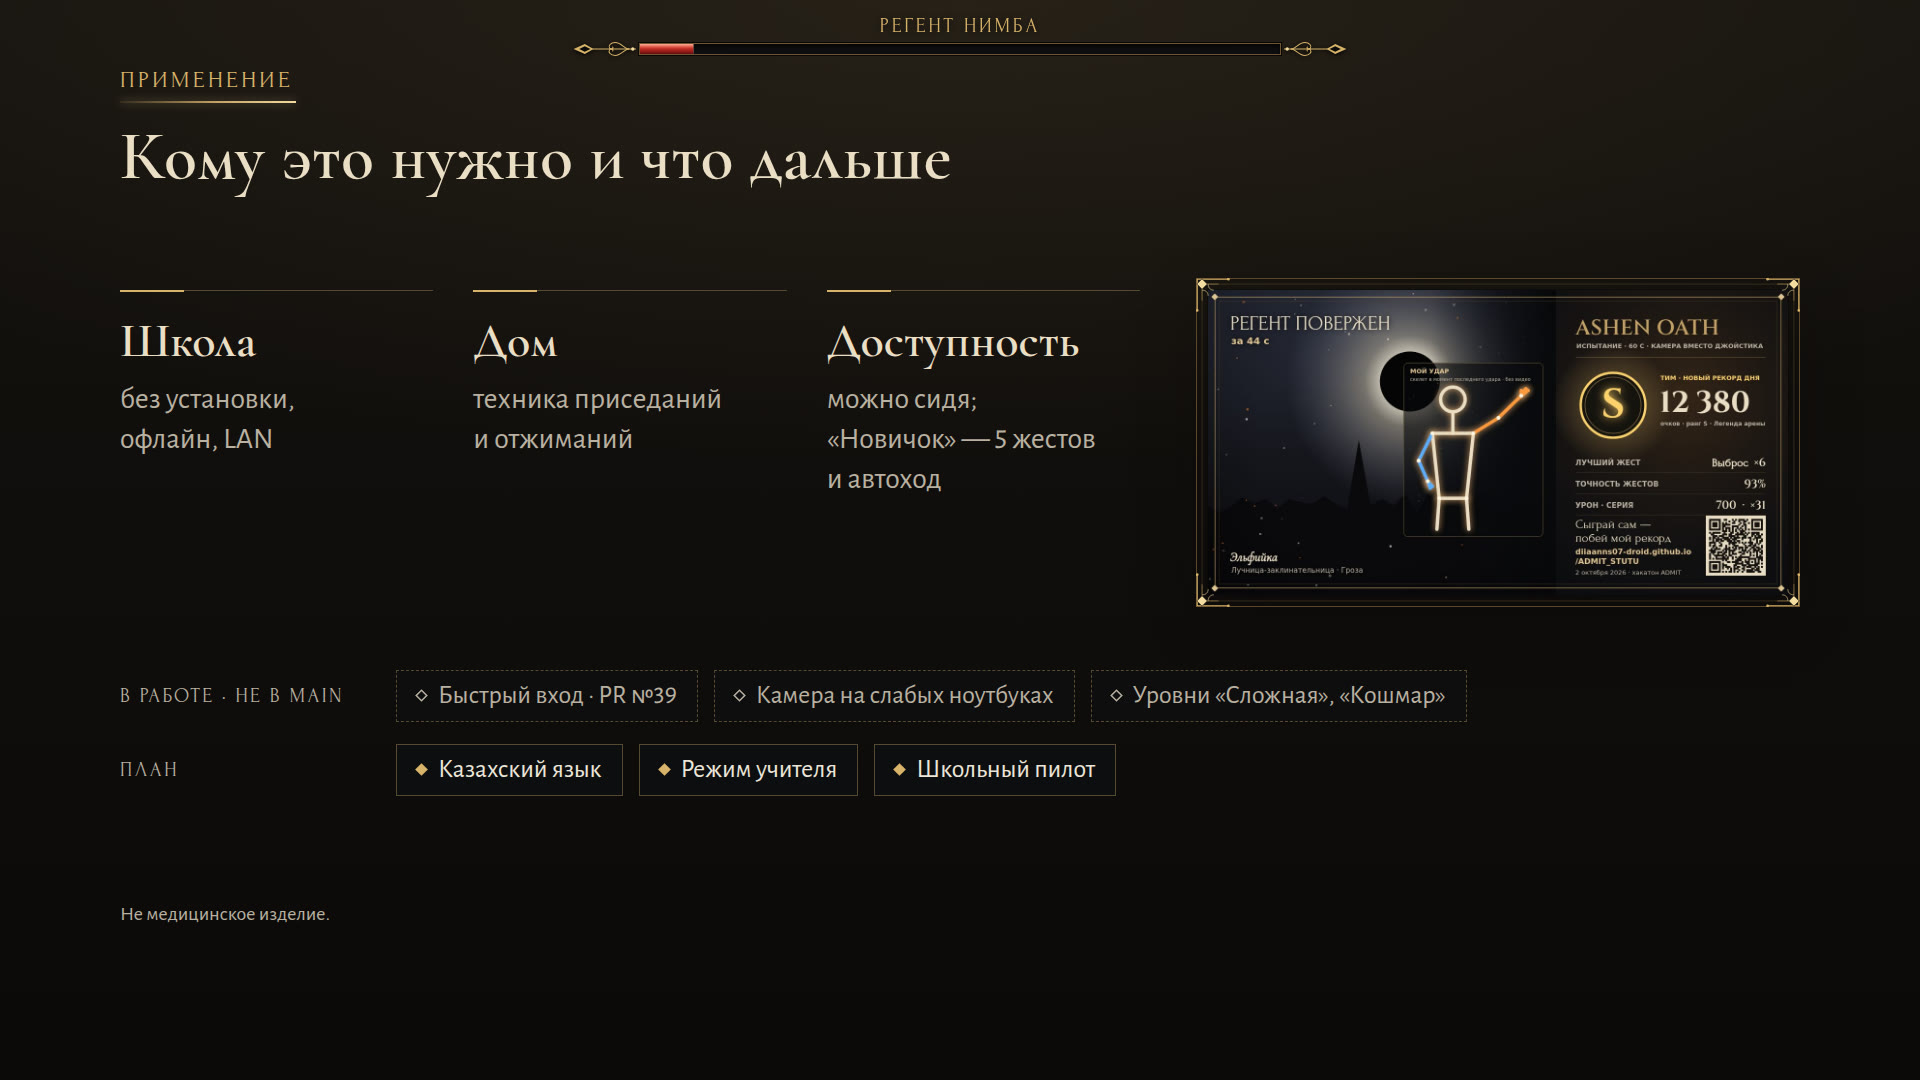
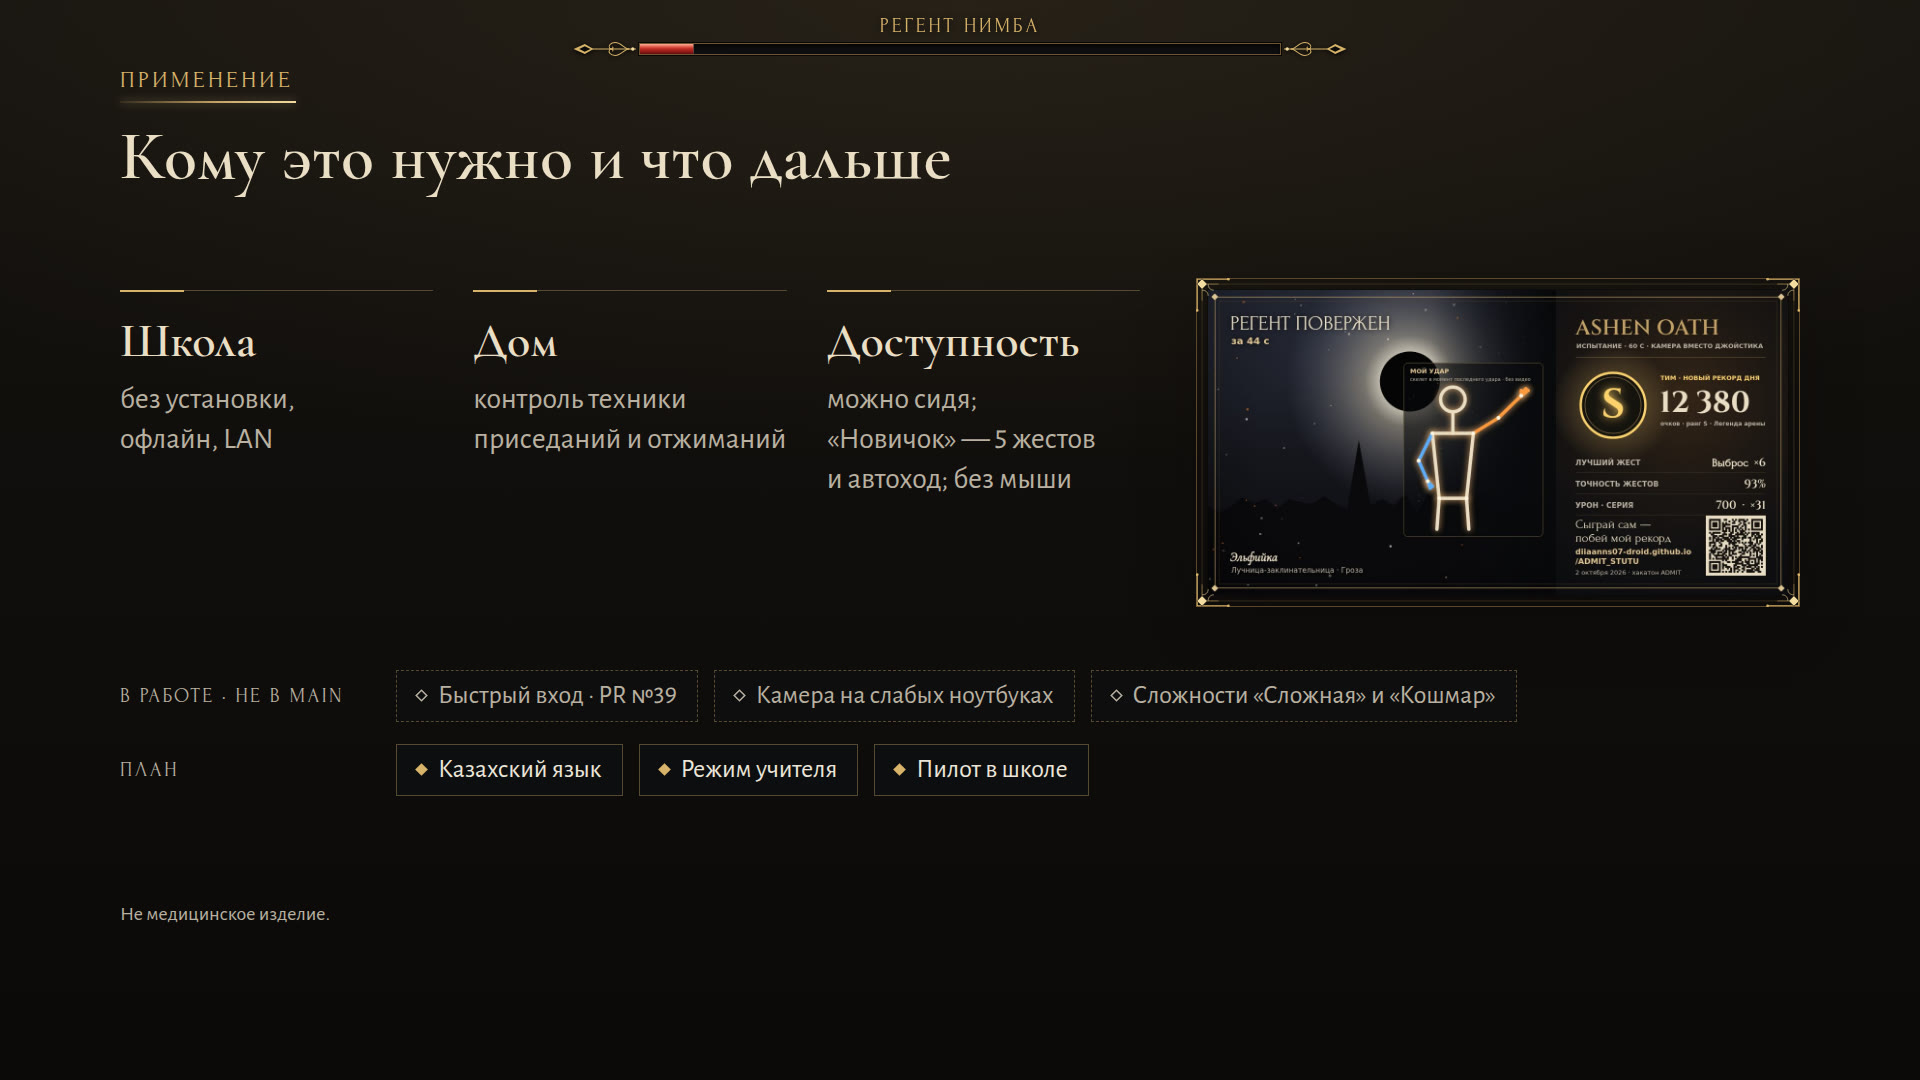
Слайд 12: формулировки из задания в пределах 40 слов; скриншоты обновлены
Claude-Session: https://claude.ai/code/session_019gRK9rntb9hNjcp6o35BNm

diff --git a/pitch/slides/part2.js b/pitch/slides/part2.js
@@ -137,16 +137,16 @@
   <div class="p2-body">
     <ul class="p2-who">
       <li data-step="1"><h3>Школа</h3><p>без установки, офлайн,&nbsp;LAN</p></li>
-      <li data-step="2"><h3>Дом</h3><p>техника приседаний и&nbsp;отжиманий</p></li>
-      <li data-step="3"><h3>Доступность</h3><p>можно сидя; «Новичок»&nbsp;— 5&nbsp;жестов и&nbsp;автоход</p></li>
+      <li data-step="2"><h3>Дом</h3><p>контроль техники приседаний и&nbsp;отжиманий</p></li>
+      <li data-step="3"><h3>Доступность</h3><p>можно сидя; «Новичок»&nbsp;— 5&nbsp;жестов и&nbsp;автоход; без&nbsp;мыши</p></li>
     </ul>
     <figure class="p2-shot p2-s12-shot">
       <div class="p2-crop"><img src="../docs/screenshots/challenge/9_poster_s.jpg" alt="Постер победы «Испытания · 60 с»: ранг S, 12 380 очков" decoding="async"></div>
       ${RING}
     </figure>
     <div class="p2-next" data-step="4">
-      <p class="p2-next-row"><span class="src p2-next-k">В работе · не в&nbsp;main</span><span class="chip chip--wip">Быстрый вход · PR&nbsp;№39</span><span class="chip chip--wip">Камера на&nbsp;слабых ноутбуках</span><span class="chip chip--wip">Уровни «Сложная», «Кошмар»</span></p>
-      <p class="p2-next-row"><span class="src p2-next-k">План</span><span class="chip">Казахский язык</span><span class="chip">Режим учителя</span><span class="chip">Школьный пилот</span></p>
+      <p class="p2-next-row"><span class="src p2-next-k">В работе · не в&nbsp;main</span><span class="chip chip--wip">Быстрый вход · PR&nbsp;№39</span><span class="chip chip--wip">Камера на&nbsp;слабых ноутбуках</span><span class="chip chip--wip">Сложности «Сложная» и&nbsp;«Кошмар»</span></p>
+      <p class="p2-next-row"><span class="src p2-next-k">План</span><span class="chip">Казахский язык</span><span class="chip">Режим учителя</span><span class="chip">Пилот в&nbsp;школе</span></p>
     </div>
     <p class="src p2-s12-cap">Не медицинское изделие.</p>
   </div>
